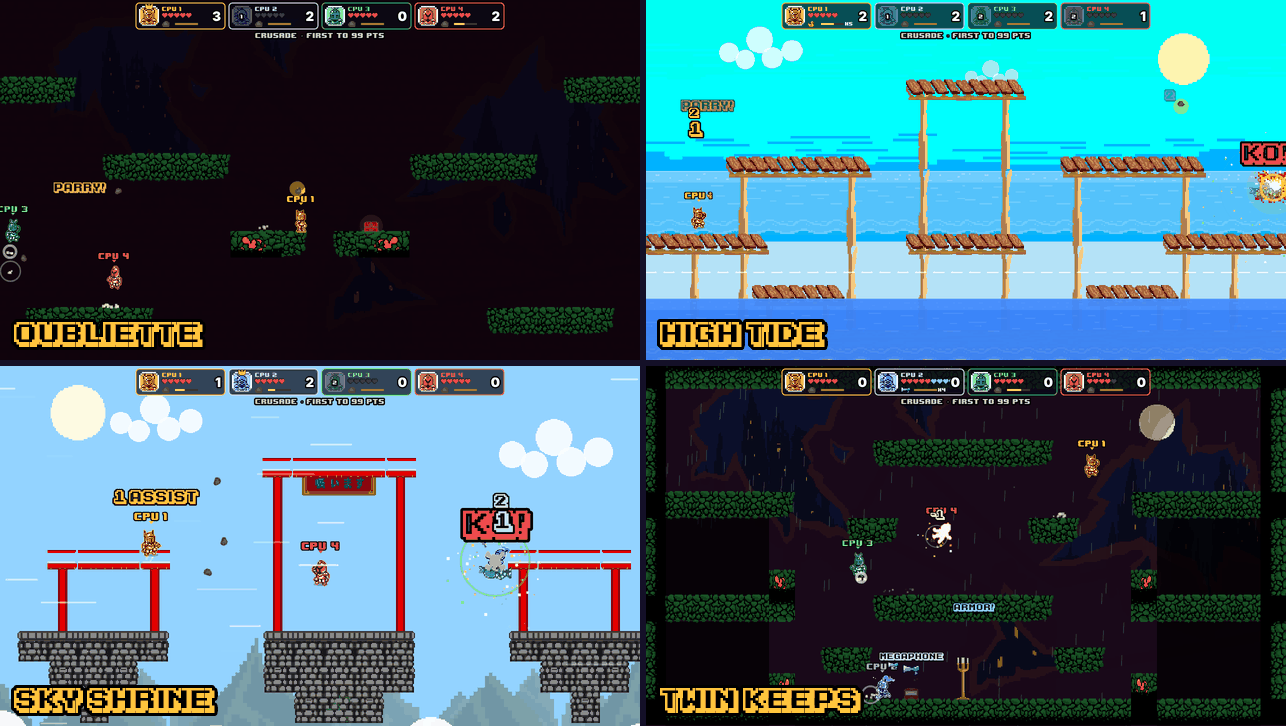
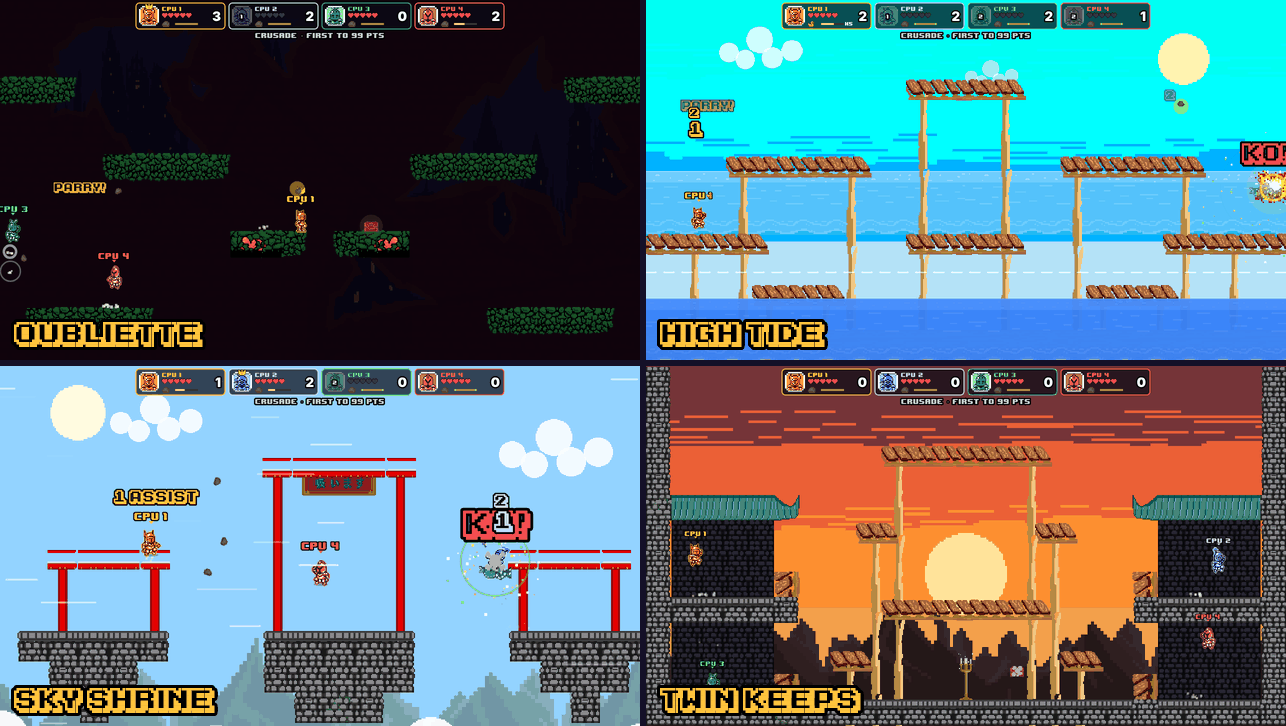
Twin Keeps: restyle as stone keeps at sunset
The murky look (dungeon moss ledges, black interiors, navy sky blended into
the maroon castle backdrop) is replaced with the temple's stone brick and
blue roofs, dark stone interiors, wooden barricades for the breakable cover
(wood breaks, stone doesn't), jump-through wooden scaffolding with posts in
the courtyard, and the original animated sunset sky behind dark mountains.
Same layout and rules; the courtyard steps are now jump-through planks.

The arena builder gains custom-art solid blocks, custom art for breakable
blocks and a per-arena plank style.

Claude-Session: https://claude.ai/code/session_012t3mN94Pv24DHP3RBkzszo

diff --git a/src/shared/levels/arenas.ts b/src/shared/levels/arenas.ts
@@ -7,8 +7,8 @@
 //                   the sand and the low piers.
 //  * Sky Shrine   - floating shrine islands with no walls and no floor: knock
 //                   rivals off. Gusts of wind push knights and bend shots.
-//  * Twin Keeps   - two castle keeps facing off over a courtyard in the rain;
-//                   their glowing merlons give cover until they crumble.
+//  * Twin Keeps   - two stone keeps facing off over a courtyard at sunset;
+//                   wooden barricades give cover until they are smashed.
 //
 // The top two rows sit under the HUD, so they never hold anything you stand on.
 
@@ -156,41 +156,56 @@ export const SKY_SHRINE: LevelData = buildArena({
 });
 
 // ------------------------------------------------------------------ Twin Keeps
-/** Rain over the courtyard and the keeps' roofs (not inside them). */
-const rain = (x: number, y: number, w: number, h: number) => ({ type: 'rain', x, y, emitter: { x, y, w, h }, direction: { x: 0.18, y: 0.98 }, z: 499999 });
+const MAP2_TILES = 'levi/map-2/tiles/';
+/** Dark stone behind the keeps' rooms. */
+const inside = (x: number, y: number) => deco(`${DRG}stone_tile1`, x, y, 550000, { color: '#4a465eff' });
 
 export const TWIN_KEEPS: LevelData = buildArena({
   id: 'keeps',
   name: 'Twin Keeps',
-  theme: 'crypt',
-  bgColor: '#0b0f2a',
+  theme: 'shrine',
+  planks: 'beach',
+  bgColor: '#f3a04b',
   music: 'sound/music/chiptune_motorcade',
   map: [
-    '#########################',
+    '#.......................#',
     '#.......................#',
     '#..........c.c..........#',
-    '#........#######........#',
+    '#........=======........#',
     '#.......................#',
-    '######.............######',
-    '#,,,,...##.....##...,,,,#',
+    '#RRRRR.............RRRRR#',
+    '#,,,,...==.....==...,,,,#',
     '#,,,,...............,,,,#',
     '#,1,,%.............%,,2,#',
-    '######...#######...######',
+    '######...=======...######',
     '#,,,,...............,,,,#',
-    '#,,,,..##.......##..,,,,#',
+    '#,,,,..==.......==..,,,,#',
     '#,3,,%....c...c....%,,4,#',
     '#########################',
   ],
-  legend: {
-    ',': (x, y) => [deco(`${TILES}black-tile`, x, y, 550000, { color: '#000000b8' })],
+  legend: { ',': (x, y) => [inside(x, y)] },
+  // Blue tiled roofs on the keeps (slanted at the courtyard end).
+  blocks: {
+    R: (x, y) => [x === -7 || x === 7
+      ? deco(`${DRG}blueroofleft`, x, y, 0, { sx: x < 0 ? -1 : 1 })
+      : deco(`${DRG}blueroofmid`, x, y, 0)],
   },
+  // The breakable cover is a wooden barricade: wood breaks, stone doesn't.
+  crumble: (x, y, group) => [
+    deco(`${MAP2_TILES}${y % 2 === 0 ? '_0000_tile-basic-1' : '_0002_tile-basic-2'}`, x, y, 0, { rot: 90, sy: 1.2, group }),
+  ],
   layers: [
-    deco(SPACE, 0, -0.5, 100000, { sx: 5.2, sy: 3, color: '#0b0f2aff', group: 'lightning-bg' }),
-    deco(SUN, 7.5, 4.2, 150000, { sx: 0.35, sy: 0.35, color: '#fff6d8e0' }),
-    deco(`${BG}towers`, 0, -0.5, 300000, { sx: 3, sy: 3, color: '#ffffff68' }),
-    ...[[-10, -2], [10, -2], [-10, -6], [10, -6]].map(([x, y]) => deco(`${TILES}black-tile`, x, y, 550000, { color: '#000000b8' })),
+    // Sunset over the mountains: dark keeps against a bright sky read clearly.
+    deco(`${MAP2}moving-sky#0`, 0, 1.8, 100000, { anim: 'levi/map-2/background-sprite' }),
+    deco(`${MAP2}moving-sky#0`, 0, 10.8, 100001, { sy: -1, anim: 'levi/map-2/background-sprite' }),
+    deco(SUN, 0, -1.6, 150000, { sx: 0.8, sy: 0.8, color: '#ffe39aff' }),
+    deco(`${DRG}background`, 0, -4.2, 200000, { color: '#6d4a78ff' }),
+    // Wooden scaffolding: posts under the courtyard platforms.
+    ...legs([-2.6, 2.6], 3.15),
+    ...legs([-3.5, 3.5], 0.15),
+    ...legs([-4.5, 4.5], -4.85),
+    ...[[-10, -2], [10, -2], [-10, -6], [10, -6]].map(([x, y]) => inside(x, y)),
     deco(`${TILES}candle-holder-stand`, 0, -5.7, 700000, { group: 'armor' }),
     deco('levi/fx/sparkles#0', 0, -5, 700001, { group: 'armor', anim: 'levi/fx/sparkles-fx', name: 'SparkleFX' }),
   ],
-  props: [rain(-6.5, -6.5, 13, 13), rain(-12, 1.5, 6, 5), rain(6, 1.5, 6, 5)],
 });

diff --git a/src/shared/levels/arena.ts b/src/shared/levels/arena.ts
@@ -27,6 +27,12 @@ export interface ArenaDef {
   wrapY?: boolean;
   /** Art behind the tiles (z < 500000) or in front (z > 700000). */
   layers?: LevelLayer[];
+  /** Look of the '=' platforms when it differs from the theme (e.g. wooden planks in a stone castle). */
+  planks?: Theme;
+  /** Extra solid block characters with their own art. */
+  blocks?: Record<string, (x: number, y: number) => LevelLayer[]>;
+  /** Art for '%' breakable blocks (must carry the given group so it vanishes when broken). */
+  crumble?: (x: number, y: number, group: string) => LevelLayer[];
   legend?: Record<string, (x: number, y: number) => LevelLayer[]>;
   props?: LevelData['props'];
 }
@@ -61,7 +67,8 @@ export function buildArena(def: ArenaDef): LevelData {
     if (r < 0 || r >= rows || c < 0 || c >= cols) return 'OUT';
     return grid[r][c];
   };
-  const isBlock = (ch: string) => ch === '#' || ch === '%' || ch === 'OUT';
+  const solidCh = (ch: string) => ch === '#' || !!def.blocks?.[ch];
+  const isBlock = (ch: string) => solidCh(ch) || ch === '%' || ch === 'OUT';
   const solidAt = (c: number, r: number) => isBlock(at(c, r));
 
   const layers: LevelLayer[] = [...(def.layers ?? [])];
@@ -92,9 +99,9 @@ export function buildArena(def: ArenaDef): LevelData {
   const runs: Array<{ c0: number; c1: number; r0: number; r1: number }> = [];
   for (let r = 0; r < rows; r++) {
     for (let c = 0; c < cols; c++) {
-      if (grid[r][c] !== '#') continue;
+      if (!solidCh(grid[r][c])) continue;
       let e = c;
-      while (e + 1 < cols && grid[r][e + 1] === '#') e++;
+      while (e + 1 < cols && solidCh(grid[r][e + 1])) e++;
       const above = runs.find((u) => u.r1 === r - 1 && u.c0 === c && u.c1 === e);
       if (above) above.r1 = r;
       else runs.push({ c0: c, c1: e, r0: r, r1: r });
@@ -111,9 +118,9 @@ export function buildArena(def: ArenaDef): LevelData {
       if (grid[r][c] !== '=') continue;
       let e = c;
       while (e + 1 < cols && grid[r][e + 1] === '=') e++;
-      const top = cy(r) + ONEWAY_TOP[def.theme];
+      const top = cy(r) + ONEWAY_TOP[def.planks ?? def.theme];
       solids.push({ x: cx(c) - 0.5, y: top - 0.1, w: e - c + 1, h: 0.1, tag: 'Ground', name: `Plank ${c},${r}`, oneWay: true } as LevelData['solids'][number]);
-      platformArt(def.theme, c, e, r, cx, cy, tile, at);
+      platformArt(def.planks ?? def.theme, c, e, r, cx, cy, tile, at);
       c = e;
     }
   }
@@ -124,7 +131,11 @@ export function buildArena(def: ArenaDef): LevelData {
       const ch = grid[r][c];
       const x = cx(c);
       const y = cy(r);
-      if (ch === '#' || ch === '%') {
+      if (def.blocks?.[ch]) {
+        for (const l of def.blocks[ch](x, y)) layers.push({ ...l, z: (z += 0.01) });
+      } else if (ch === '%' && def.crumble) {
+        for (const l of def.crumble(x, y, crumbleGroup[r][c])) layers.push({ ...l, z: (z += 0.01) });
+      } else if (ch === '#' || ch === '%') {
         blockArt(def.theme, c, r, x, y, solidAt, tile, crumbleGroup[r][c] || undefined);
       } else if (ch >= '1' && ch <= '4') {
         spawns[Number(ch) - 1] = { x, y: y - 0.5 + 0.55 };

diff --git a/src/shared/levels/index.ts b/src/shared/levels/index.ts
@@ -25,7 +25,7 @@ export const LEVELS: LevelInfo[] = [
   { id: 'oubliette', name: 'Oubliette', preview: '', music: 'sound/music/dungeon', blurb: 'A bottomless shaft. Fall out the floor, drop in from the ceiling. Shots loop too.', isNew: true },
   { id: 'tide', name: 'High Tide', preview: '', music: 'sound/music/wackybeach', blurb: 'The sea rises every 30 seconds. Get to the high piers or get washed away.', isNew: true },
   { id: 'shrine', name: 'Sky Shrine', preview: '', music: 'sound/music/dragon', blurb: 'Islands above the clouds. No walls, no floor: knock them off. Gusts bend every shot.', isNew: true },
-  { id: 'keeps', name: 'Twin Keeps', preview: '', music: 'sound/music/chiptune_motorcade', blurb: 'Two castles, one courtyard. Hide behind the glowing walls until they crumble.', isNew: true },
+  { id: 'keeps', name: 'Twin Keeps', preview: '', music: 'sound/music/chiptune_motorcade', blurb: 'Two stone keeps, one courtyard. Hide behind the wooden barricades until they get smashed.', isNew: true },
 ];
 
 type TweaksFor = (mode: GameMode) => LevelTweaks;
@@ -97,14 +97,12 @@ registerLevel('shrine', SKY_SHRINE, {
   features: { gusts: { every: 1260, jitter: 360, warn: 120, length: 240, speed: 3.2 } },
 });
 
-// ---- Twin Keeps: closed castle courtyard. The keeps' merlons crumble (barrels
+// ---- Twin Keeps: closed castle courtyard. The keeps' barricades break (barrels
 // and nukes in Classic, any fire in Crusade).
 registerLevel('keeps', TWIN_KEEPS, {
   wrapX: false,
   breakable: (s) => !!s.group?.startsWith('crumble'),
   features: {
-    lightning: true,
-    rain: true,
     armor: { x: -0.25, y: -6.5, w: 0.5, h: 1.63, respawn: 1800 },
   },
 });

diff --git a/README.md b/README.md
@@ -60,7 +60,7 @@ Each one is built around a single idea that changes how projectile fights play o
 | **Oubliette** | Dungeon tiles, glowing bone tiles | A bottomless shaft. Fall out of the floor and you drop in from the ceiling, and walk off one side to come back on the other. Shots loop too, so a stone thrown down the shaft can land on someone's head. |
 | **High Tide** | Beach planks and pier legs, the unused daytime sky | The sea rises every 30 seconds and floods the sand and the low piers. A dashed line marks the high-water level while "HIGH TIDE!" is announced. Getting knocked into the water is a KO for whoever hit you, and chests and shots that land in it are lost. |
 | **Sky Shrine** | Temple stones and torii, clouds made from the beach sun | Three islands with no walls and no floor: you score by knocking rivals off. Every 20-25 seconds a gust blows for 4 seconds, pushing knights and bending every shot. |
-| **Twin Keeps** | Dungeon tiles, the original's glowing cracked-wall tiles | Two castles face off across a rainy courtyard. Each floor is guarded by a low wall that blocks shots: hide behind it and jump up to throw. In Classic, barrels and nukes smash the walls; in Crusade, any shot wears them down. Spawns are split by keep for 2v2. |
+| **Twin Keeps** | Temple stones and blue roofs, beach planks and posts, the animated sunset sky | Two stone keeps face off across a courtyard of wooden scaffolding at sunset. Each floor is guarded by a low wooden barricade that blocks shots: hide behind it and jump up to throw. In Classic, barrels and nukes smash the barricades; in Crusade, any shot wears them down. Spawns are split by keep for 2v2. |
 
 The new arenas are written as plain-text maps in `src/shared/levels/arenas.ts`, and `src/shared/levels/arena.ts` tiles them with the original sprites. Stage-select thumbnails are rendered from the level data. CPU players know about the new hazards: they climb before the flood, use their double jump to get back onto an island, and jump gaps instead of walking off them.
 
